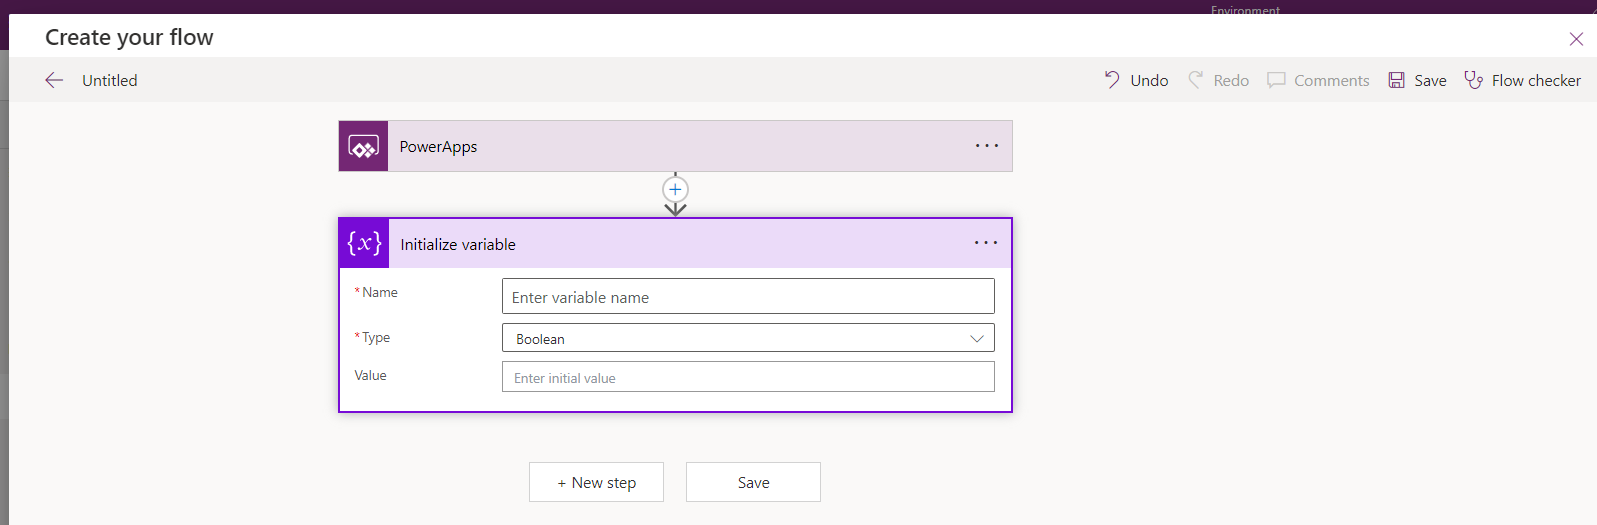
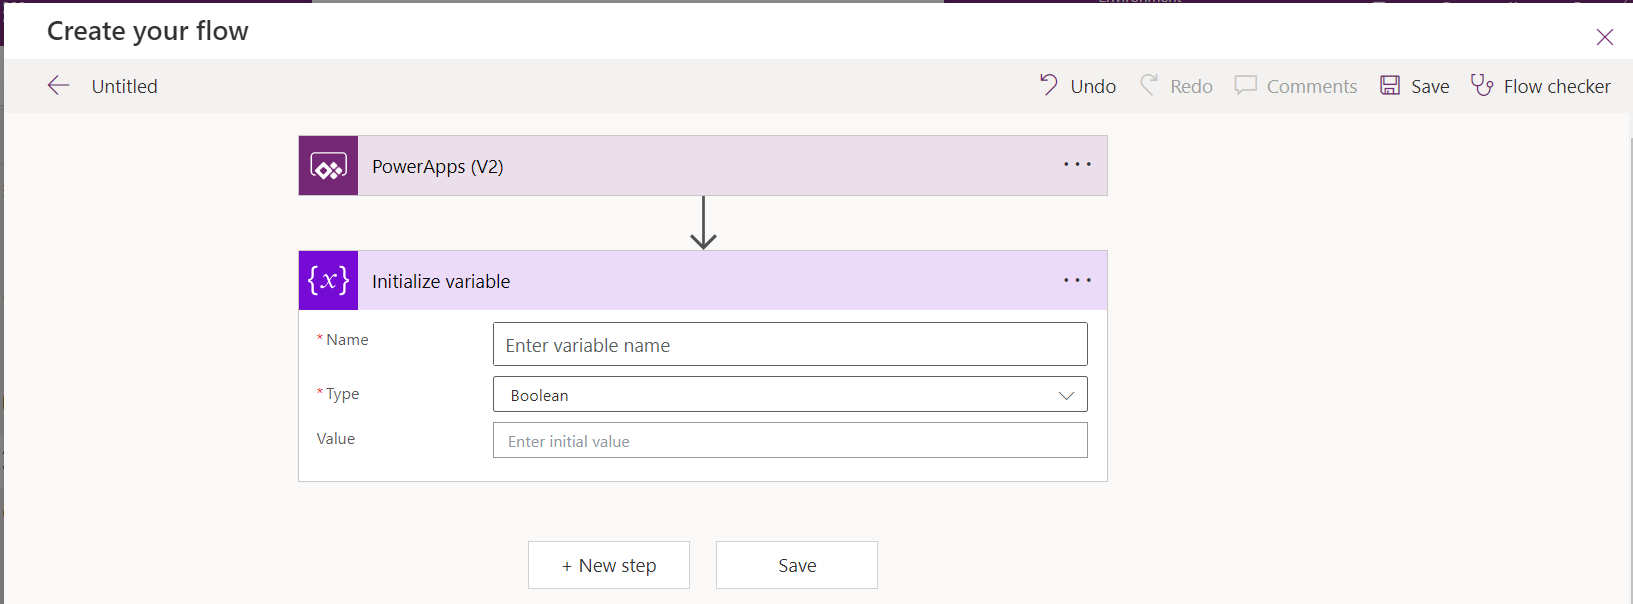
Flow adjusted to v2

diff --git a/04_ImplementWizardStep1Part2.md b/04_ImplementWizardStep1Part2.md
@@ -38,6 +38,23 @@ The following general rules apply:
 * To delete a step click on the three dots right to the header. There you find an entry for removal.
 * Saving the flow requires a name. Click on the text `Untitled` and enter your desired name. Afterwards press the save button.
 
+### Declare input parameters
+
+In the `PowerApps (V2)` initial action input parameters must be declared explicitly. We need the following parameters that are then later populated by the form:
+|Parameter               |Type|Name of parameter|
+|-------------------|-----------------------------------|--|
+|Importing user name|Text                          |Username|
+|Description|Text                          |Description|
+|Year|Number                          |Year|
+
+To enter the parameter klick at the header of the step so that the action is expanded. You should see a link to add a parameter named `+ Add an input`. Run the following steps for each parameter:
+* Klick at `Add` link
+* Specify the type by clicking at the icon according to the table. You should now get a new entry with a box for the name and the value.
+* Enter the name according to the table IN THE LEFT BOX and leave the right textfield for the value empty.
+
+At the end your initial step should like in the picture below:
+<br><img src="./images/flow_new_ppaction_paras.png" /><br>
+
 ### Implement flow logic
 
 In the next step we have to get the internal ID of the record holding the importing user. We will use the `List Rows` action within dataverse for that. Click `New Step` and enter `dataverse` in the search field as shown below:
@@ -54,12 +71,10 @@ Set the fields as shown in the table:
 
 The expression for `Filter rows` we use for filtering the rows by the importing username that was specified in the form. The required expression is `hackpp_sceapp_cst_username eq '<value from form>'`. 
 `hackpp_sceapp_cst_username` is one of the various internal column names of the `CST_USERNAME` in the targeted table. 
-To populate `<value from form>` we have to generate a new parameter. The screenshot below shows how that is done. Click into the field with the above expression. If you don't see an extra window click the small link under the field named `Add dynamic content`. Select in the tab `Dynamic Content` the entry `Ask in PowerApps`. The screenshot shows the reaction of the designer after `Ask in PowerApps` was picked.
+To populate `<value from form>` we have to generate a new parameter. The screenshot below shows how that is done. Click into the field with the above expression. If you don't see an extra window click the small link under the field named `Add dynamic content`. Select in the tab `Dynamic Content` and enter the name of the parameter `Username`. The screenshot shows the reaction of the designer after `Username` was picked.
 
 **NOTE: The generated expression must be inside the single quotes.**
 <br><img src="./images/flow_new_list_rows_add_para.png" /><br>
-
-When you hover over the generated expression you see the name of the expected parameter which is `Listrows_Filterrows` (Corresponds to `<name of action>_<name of field>`).
 
 In the next step we will add a new row that represents our import header. We will use the `Add a new row` action within dataverse. Click `New Step` and enter `dataverse` in the search field. Pick the action `Add a new row`. The screenshot below shows the action. Select `IMP_CO2_CONS_RAW_HDR` as table name. As a result the table specific columns will be shown as illustrated in the screenshot below. Mandatory fields are marked with an asteriks. The generated UI is not correct reagrding `CST_IMP_CODE`. Yes as logical primary key it is mandatory. However due to the auto generated definition no value is required. We will provide a special dummy to satisfy the constraints:
 <br><img src="./images/flow_new_add_row.png" /><br>
@@ -95,8 +110,8 @@ Follow the instructions in the table for the remaining fields. Enter the paramet
 |Field           |Value                                         |
 |----------------|----------------------------------------------|
 | CST_IMP_CODE   | Set the field to the special expression `null` as you did it for `utcNow`. Otherwise you get an error.     |
-| CST_IMP_YEAR   | Use the way for adding a parameter as before. If you don't see the expression `Ask in PwerApps` under `PowerApp` you have to click on `See more`. |
-| CST_IMP_DESC   | Use the way for adding a parameter as before. If you don't see the expression `Ask in PwerApps` under `PowerApp` you have to click on `See more`. |
+| CST_IMP_YEAR   | Use the way for adding a parameter as before. If you don't see the expression `Year` under `PowerApps (V2)` within the tab `Dynamic content` you have to click on `See more`. |
+| CST_IMP_DESC   | Use the way for adding a parameter as before. If you don't find `Description` under `PowerApps (V2)` within the tab `Dynamic content` you have to click on `See more`. |
 | CST_IMP_STATE  | Select Pending from the dropdown             |
 
 When you have filled out everything your action should look like the following:
@@ -130,17 +145,6 @@ Enter `returnedval` as name for the parameter. Click into the value field and le
 
 Save your flow under the new name you want. It will be automatically added to your app when you started the flow designer with `+ Add flow`.
 
-## Versioning
-
-In the last excercise we learned how to rollback to a later version of a page. You are probably wondering if there is such a versioning system for flows as well. Even though this feature was planned to be already implemented it is not available yet. You can check [here](https://learn.microsoft.com/en-us/power-platform/release-plan/2023wave2/power-automate/use-versioning-solution-cloud-flows) if that has already been changed.
-For now we are going to use the rather ugly way of copying and renaming:
-1. Use the `Back` arrow button until you are back to the objects of your solution:
-<br><img src="./images/view_solution.png" /><br>
-
-Your saved flow should be in there at the bottom. Open it and you will see a new view with all the details of the Flow and its run history. At the very top next to the Edit button is the `Save as` button. We will use it to create a copy of our flow and name it with a version number behind it.
-
-Since it got a different name our app still relys on the first version name and therefor you should treat the flow without version number always as the newest, which you can replace with an older copy by removing the original and renaming the versioned flow back to the original.
-
 ## Wire Flow with Submit Button
 
 We replace now the `OnSelect`property from the previous step. We plan for different ways to persist the changes. In the edit case we can use the standard `SubmitForm` to persist the changes. We just add a confirmation message for the user. For new we have run our flow and store returned value for later processing in a local variable. The user is also informed with an additional message. Enter the following formula in the property `OnSelect` that is doing all that (You have insert your flow name):
@@ -151,7 +155,7 @@ If(locImpMode = "New",
 	 locParaYear: WizardStepImpHdrMainViewImportYearTextBox.Text,
 	 locParaDesc: WizardStepImpHdrMainViewImportDescTextBox.Value});
    UpdateContext(
-	 {locNewImpCode: <Name of your flow>.Run(locParaUserName, locParaYear, locParaDesc).returnedval });
+	 {locNewImpCode: <Name of your flow>.Run(locParaUserName, locParaDesc, locParaYear).returnedval });
    Notify("Import " & locNewImpCode & " has been created."), 
    SubmitForm(WizardStepImpHdrMainView);
    Notify("Import " & WizardStepImpHdrMainView.LastSubmit.CST_IMP_CODE & " has been updated."))
@@ -173,7 +177,7 @@ The important new takeaways from that code are:
 
   Running a flow with parameters requires the run command as follows: `<flowname>.Run(<parameters separated by comma>)`. Referencing the return value is done by `.<name of return parameter>`.
 
-* LastSubmit: Refers to the stored data. Unfortunately it only works for edit only.
+* LastSubmit: Refers to the stored data. Unfortunately it works for edit only.
 
 # 4. Testing changes
 
@@ -183,3 +187,13 @@ Start from the import overview page `WizardStepImpHeader` to ensure a correct sc
 |Wizard first step: Click on Submit button (new)  |You should see a new record in the dataverse table after clicking submit. The displayed message should be accordingly.|
 |Wizard first step: Click on Submit button (edit) |You should see the updated record in the dataverse table. The displayed message should be accordingly.|
 
+# 5. Versioning
+
+In the last excercise we learned how to rollback to a later version of a page. You are probably wondering if there is such a versioning system for flows as well. Even though this feature was planned to be already implemented it is not available yet. You can check [here](https://learn.microsoft.com/en-us/power-platform/release-plan/2023wave2/power-automate/use-versioning-solution-cloud-flows) if that has already been changed.
+For now we are going to use the rather ugly way of copying and renaming:
+1. Use the `Back` arrow button until you are back to the objects of your solution:
+<br><img src="./images/view_solution.png" /><br>
+
+Your saved flow should be in there at the bottom. Open it and you will see a new view with all the details of the Flow and its run history. At the very top next to the Edit button is the `Save as` button. We will use it to create a copy of our flow and name it with a version number behind it.
+
+Since it got a different name our app still relys on the first version name and therefor you should treat the flow without version number always as the newest, which you can replace with an older copy by removing the original and renaming the versioned flow back to the original.

diff --git a/03_ImplementWizardStep1Part1.md b/03_ImplementWizardStep1Part1.md
@@ -70,6 +70,7 @@ Select the newly added container so that it is going to become the new parent fo
 The form will be referenced later in code snippets. Rename the newly added form to `WizardStepImpHdrMainView` to ensure the code snippets work. The newly added button won't be referenced so the name is up to you.
 
 ## Saving and Versioning
+
 You have done the first changes! Congratulations! You shall better save them now. Click the disk icon or hit `[ctrl+S]` on your keyboard now.
 <br><img src="./images/intro_app_save_publish.png" /><br>
 
@@ -112,6 +113,10 @@ You do not need to save this change and can close the view by discarding all cha
 
 ## Configure added Form
 
+Go back to the page `PgManageImps` in edit mode and select our newly added form `WizardStepImpHdrMainView`.
+
+### Wire form with data source/ columns
+
 First we have to wire our form with the underlying `IMP_CO2_CONS_RAW_HDR` table. Go to the `Data source` property and select the table.
 <br><img src="./images/wiz_layout_ctrls_frm_ds.png" /><br>
 
@@ -136,6 +141,8 @@ Rename the controls **HOLDING THE USER INPUT** listed below as stated since we n
 |Year               |TextInput                         |                            WizardStepImpHdrMainViewImportYearTextBox|
 |Description        |TextBox                           |WizardStepImpHdrMainViewImportDescTextBox|
 
+### Customize default cards with reset button 
+
 Because deleting text of a Text field is intuitive, but deleting text of a Date field is not, we are going to add a reset button to `WizardStepImpHdrMainViewImportTS`. Select its Datepicker `WizardStepImpHdrMainViewImportTSDatePicker` and set its `OnSelect` action to `UpdateContext({resetdateTS:false})`.
 
 * `UpdateContext` updates the context of the local page with new or changed local variables such as resetdateTS.
@@ -153,6 +160,8 @@ Now we just need to insert a new button to the Card. Set its Text to `X` and its
 * This will set the variable resetdateTS to true and reset the selected date of the Datepicker popup menu. 
 
 The reset function works now! Well done!
+
+### Configuring DefaultMode of the form
 
 Creating or editing is defined by the property `Default mode`. The new and the edit scenario require different values. That is the first case where we need a formula to determine the correct value. Two ways exist:
 * Entering it in the properties on the right-hand side
@@ -187,6 +196,8 @@ Explanations regarding the expression:
 * `LookUp` retrieves the record that fulfills the condition
 * `CST_IMP_CODE = locImpCode` represents the condition that filters the currently edited record
 
+### Configuring other properties of the form
+
 Many fields within the cards are configured with defaults such as the card for the import code. With the standard configuration the field is still displayed as editable but you cannot jump into it. To avoid confusion we want to disable it for creating a new record.
 
 Unlock the property `DisplayMode` on the tab `Properties` for the cards CST_IMP_CODE, CST_IMP_STATE and CST_IMP_TS. Overwrite the existing value with the following expression:
@@ -196,7 +207,7 @@ Explanations regarding the expression:
 * `DisplayMode.Disabled` disables the card
 * `Parent.DisplayMode` enforces the default behavior
 
-Furthermore we want to fill the description with additional derived data, which could even be stored as a new variable. Select the Card `WizardStepImpHdrMainViewImportDesc` and replace the `Default` propety with `myDescription`. This will lead to a temporary error since the variable is not getting initialized yet.
+Furthermore we want to fill the description with additional derived data, which could even be stored as a new variable. Select the Card `WizardStepImpHdrMainViewImportDesc` and replace the `Default` property with `myDescription`. This will lead to a temporary error since the variable is not getting initialized yet.
 
 As a last step we set the relative height so that the form occupies minimum space. Set `Fill portions` on the tab `Properties` to `0.2`.
 
